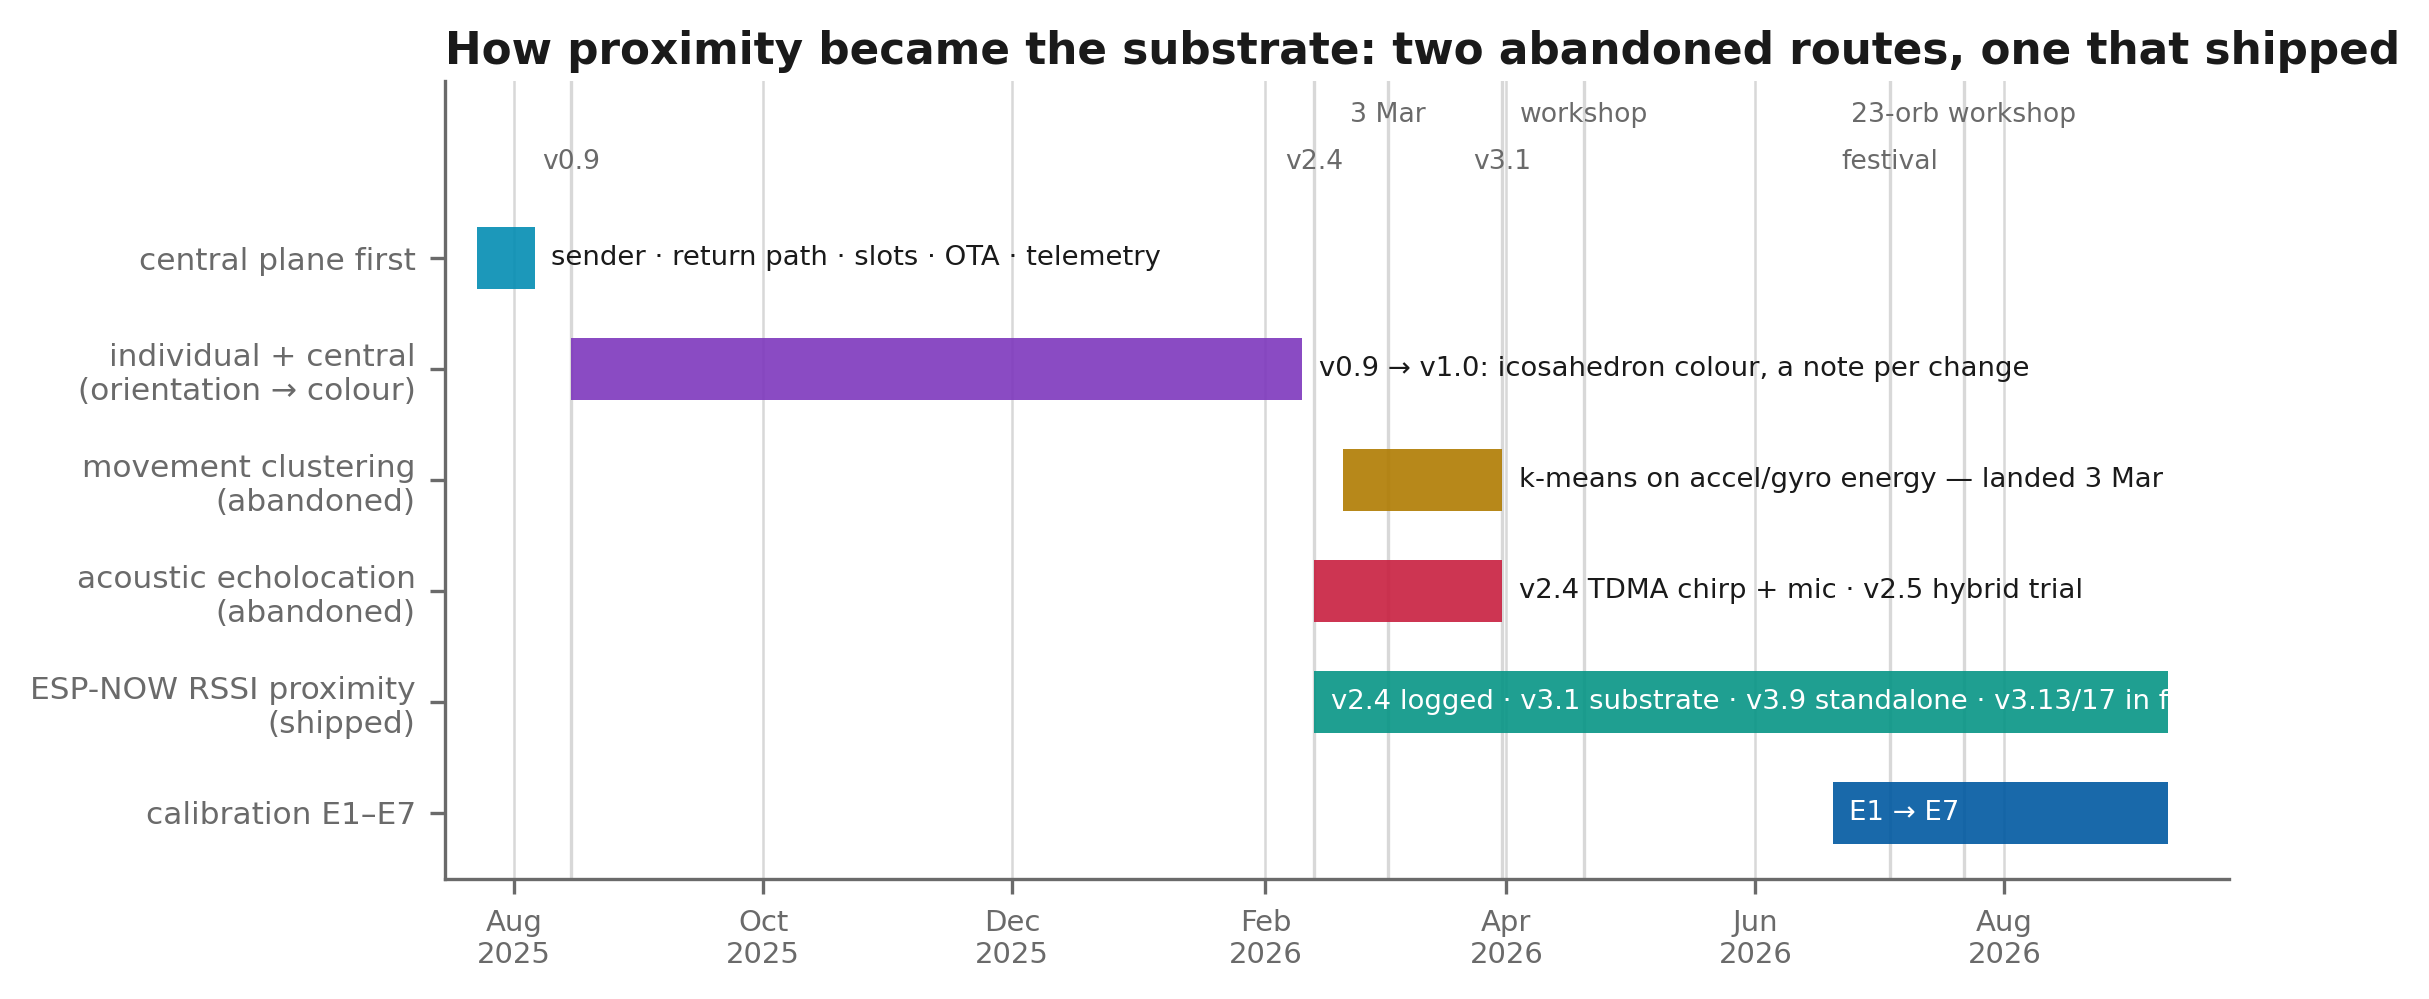
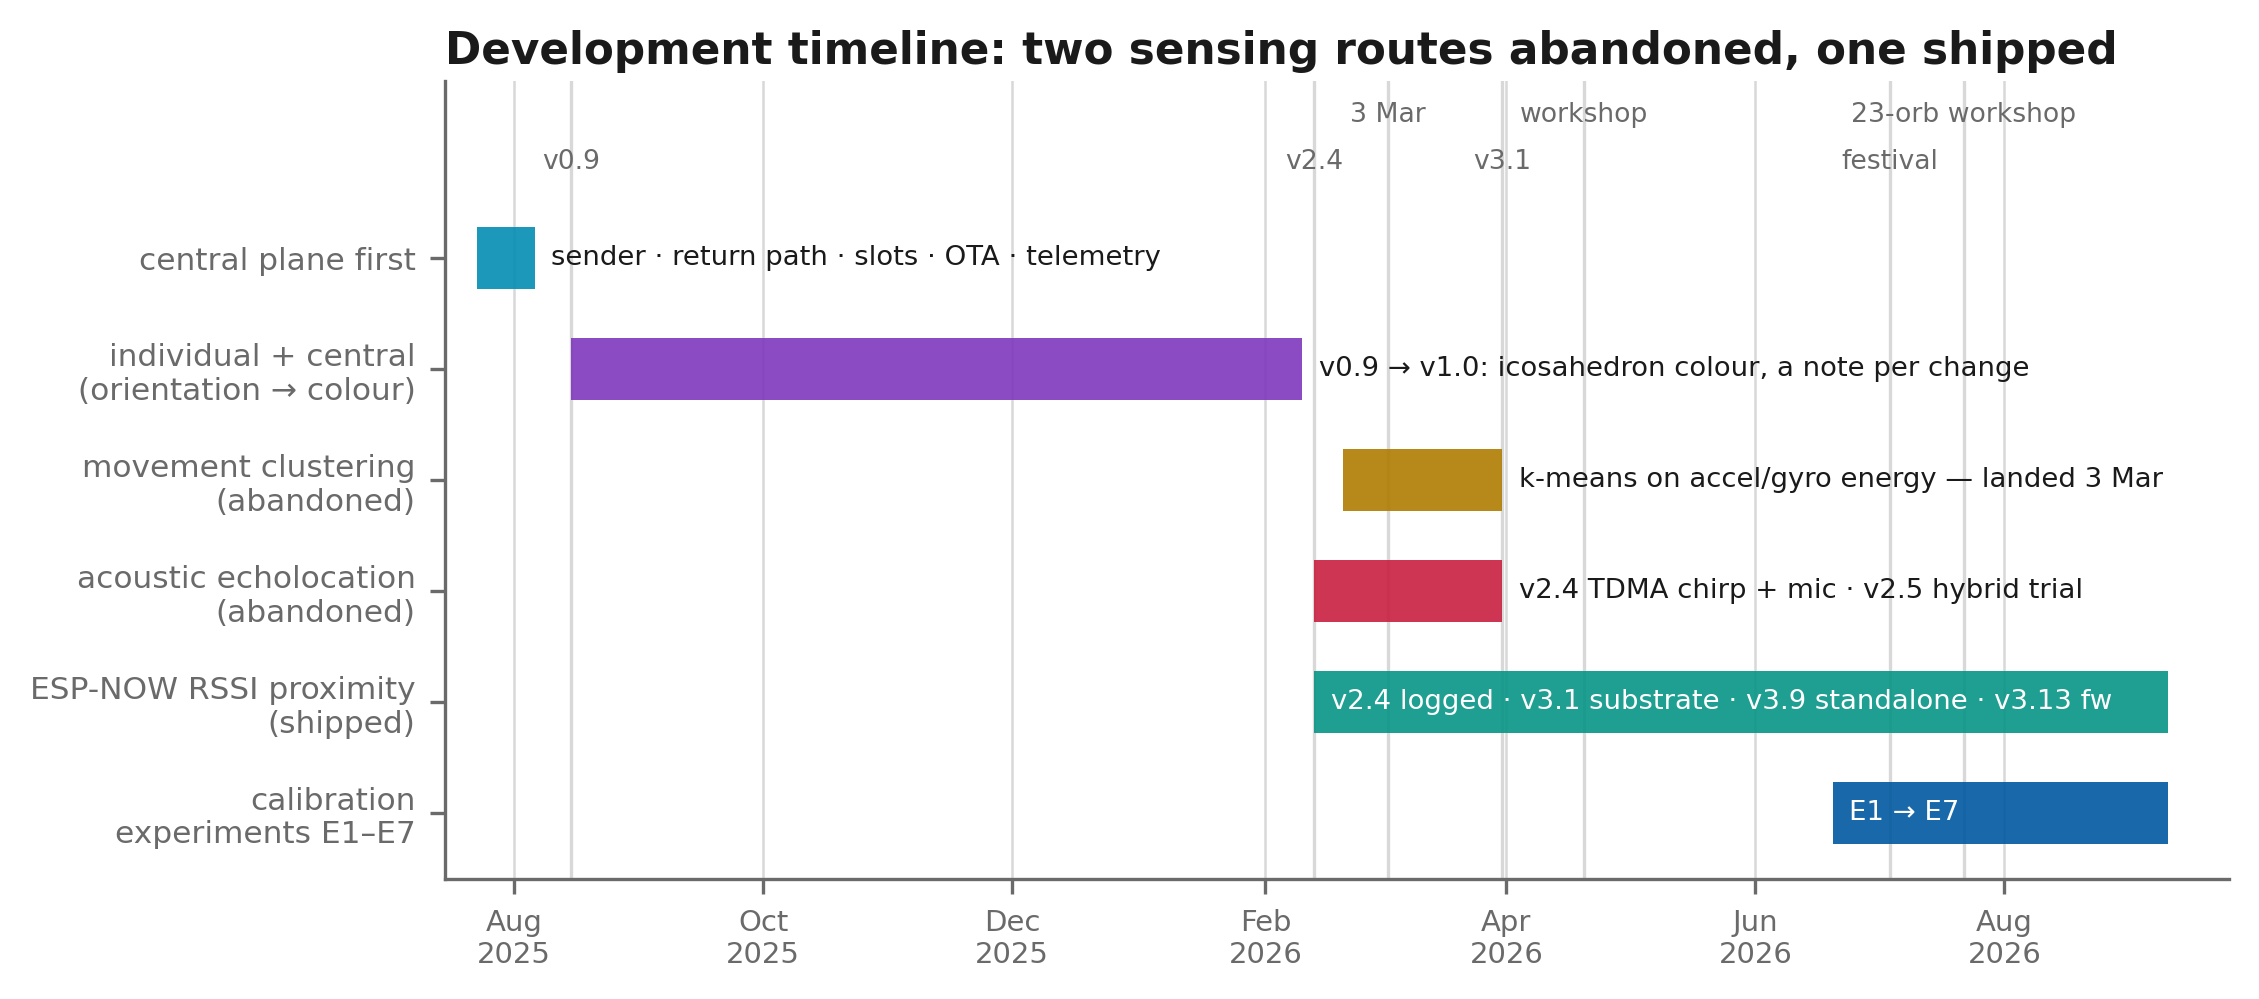
figures: match architecture panel scales, fix timeline labels and clipping
Panel B's ring drew smaller than A's because equal aspect plus width_ratios
shrank its axes box; B's x-range is now narrowed by the same factor. Dropped the
panel B subheading. Timeline lane renamed to 'calibration experiments E1-E7',
title updated, and two clipped bar labels shortened to fit.

Claude-Session: https://claude.ai/code/session_0199TePCg5kTEVBqaP392G4K

diff --git a/tools/make_calibration_figs.py b/tools/make_calibration_figs.py
@@ -808,11 +808,13 @@ def fig_architecture():
         for (x, y) in pts:
             ax.add_patch(mp.Circle((x, y), nr, fc="white", ec=INK, lw=1.2, zorder=3))
     for ax in (a, b):
-        ax.set_xlim(0, 10); ax.set_ylim(0, 5.5); ax.set_aspect("equal"); ax.axis("off")
+        ax.set_ylim(0, 5.5); ax.set_aspect("equal"); ax.axis("off")
         # Equal aspect shrinks each axes box to the data ratio and CENTRES it in its
         # gridspec slot, so the narrower right panel sits lower and its "B" title
         # drops below "A". Anchor both to the top so the titles share a line.
         ax.set_anchor("N")
+    a.set_xlim(0, 10)
+    b.set_xlim(5.0 - 10 / 1.45 / 2, 5.0 + 10 / 1.45 / 2)
     # ---- A: infrastructure mode
     a.add_patch(mp.FancyBboxPatch((0.3, 1.0), 2.4, 3.0, boxstyle="round,pad=0.06", fc="#F2F7FA", ec=SKY, lw=1.4, zorder=2))
     a.text(1.5, 4.35, "central plane", ha="center", va="bottom", fontsize=8.5, fontweight="bold", color=INK)
@@ -830,8 +832,7 @@ def fig_architecture():
     a.text(7.3, 4.55, "each orb broadcasts its top-N view\n2 ms after every multicast frame", ha="center", va="top", fontsize=6.8, color=MUTED)
     a.set_title("A   Infrastructure mode", loc="left", fontsize=9.5)
     # ---- B: ad-hoc mode
-    ring(b, 5.0, 2.55, r=1.05)
-    b.text(5.0, 4.9, "the same clusterer, on every orb", ha="center", fontsize=8, color=TEAL, fontweight="bold")
+    ring(b, 5.0, 2.3, r=1.1)          # same radius as panel A, now at the same scale
     b.text(5.0, 4.55, "standalone pacer 50 Hz, armed\n10 × 100 ms after the last frame", ha="center", va="top", fontsize=6.8, color=MUTED)
     b.text(5.0, 0.62, "no server, no access point\nlight and sound from cluster id\nstationary fleet sleeps after 30 s", ha="center", va="center", fontsize=7.0, color=INK)
     b.set_title("B   Ad-hoc mode (what ships)", loc="left", fontsize=9.5)
@@ -843,13 +844,13 @@ def fig_timeline():
     import datetime as dt
     d = lambda x: dt.date.fromisoformat(x)
     lanes = ["central plane first", "individual + central\n(orientation → colour)", "movement clustering\n(abandoned)",
-             "acoustic echolocation\n(abandoned)", "ESP-NOW RSSI proximity\n(shipped)", "calibration E1–E7"]
+             "acoustic echolocation\n(abandoned)", "ESP-NOW RSSI proximity\n(shipped)", "calibration\nexperiments E1–E7"]
     cols = [SKY, PURPLE, AMBER, CRIMSON, TEAL, NAVY]
     ev = [(0, "2025-07-23", "2025-08-06", "sender · return path · slots · OTA · telemetry"),
           (1, "2025-08-15", "2026-02-10", "v0.9 → v1.0: icosahedron colour, a note per change"),
           (2, "2026-02-20", "2026-03-31", "k-means on accel/gyro energy — landed 3 Mar"),
           (3, "2026-02-13", "2026-03-31", "v2.4 TDMA chirp + mic · v2.5 hybrid trial"),
-          (4, "2026-02-13", "2026-09-10", "v2.4 logged · v3.1 substrate · v3.9 standalone · v3.13/17 in firmware"),
+          (4, "2026-02-13", "2026-09-10", "v2.4 logged · v3.1 substrate · v3.9 standalone · v3.13 fw"),
           (5, "2026-06-20", "2026-09-10", "E1 → E7")]
     marks = [("2025-08-15", "v0.9", 0), ("2026-02-13", "v2.4", 0), ("2026-03-03", "3 Mar", 1), ("2026-03-31", "v3.1", 0),
              ("2026-04-20", "workshop", 1), ("2026-07-04", "festival", 0), ("2026-07-22", "23-orb workshop", 1)]
@@ -868,7 +869,7 @@ def fig_timeline():
     ax.set_xlim(d("2025-07-15"), d("2026-09-25")); ax.grid(axis="y", visible=False)
     ax.xaxis.set_major_locator(matplotlib.dates.MonthLocator(bymonth=[8, 10, 12, 2, 4, 6, 8]))
     ax.xaxis.set_major_formatter(matplotlib.dates.DateFormatter("%b\n%Y")); ax.tick_params(axis="x", labelsize=7)
-    ax.set_title("How proximity became the substrate: two abandoned routes, one that shipped", loc="left", pad=4)
+    ax.set_title("Development timeline: two sensing routes abandoned, one shipped", loc="left", pad=4)
     tidy(ax)
     save(fig, "timeline.png")
 
